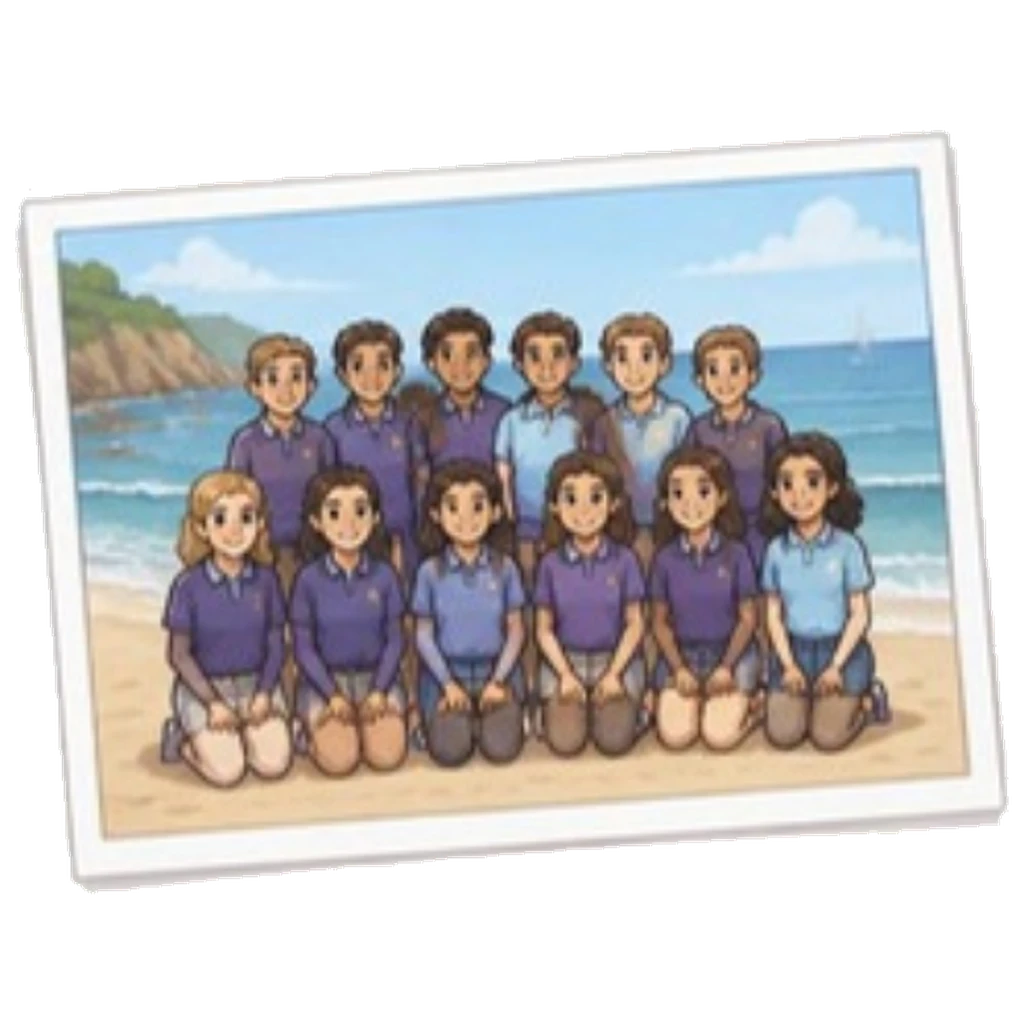
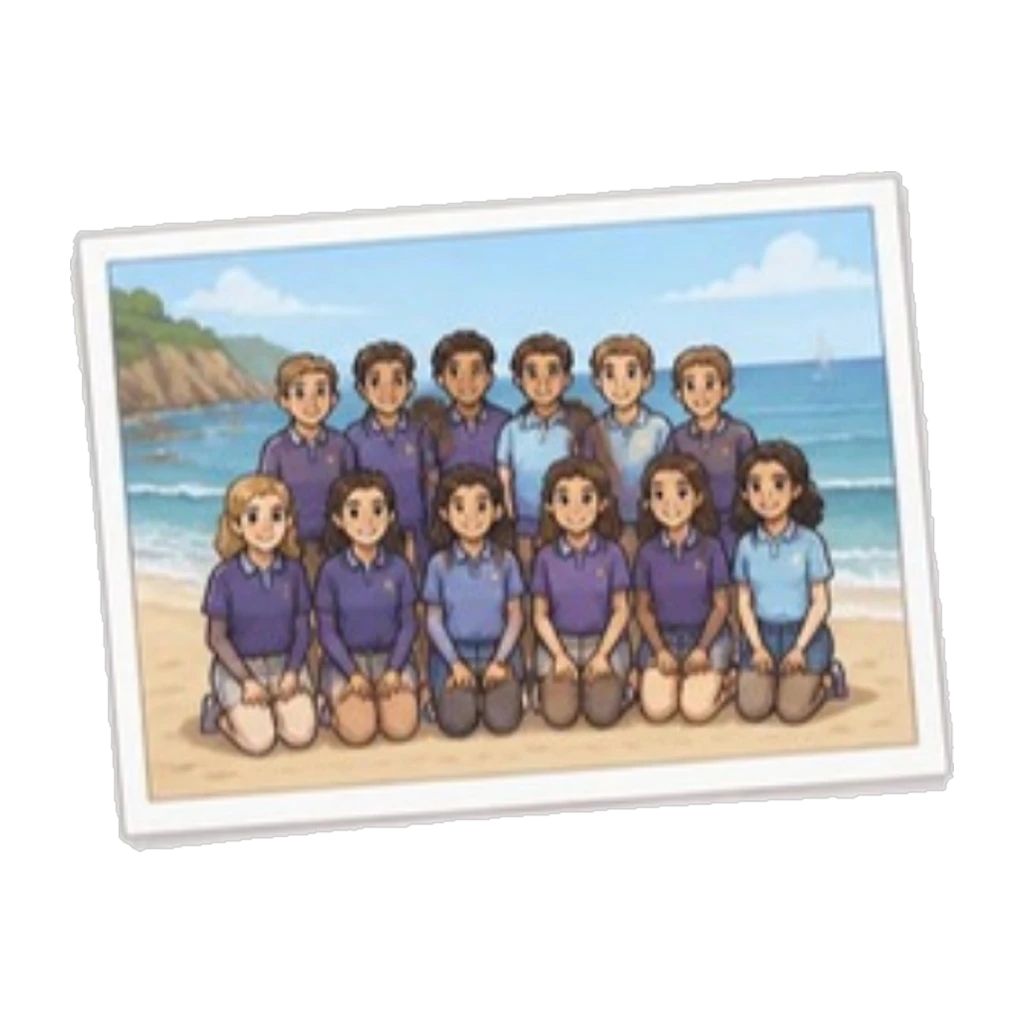
Academy: B1 S1 chapter arc (essential question + 8 chapters in data, blueprint and spec); card splitter handles grey sheets
Claude-Session: https://claude.ai/code/session_01Drtw7zYvDHszyT71Jbh84t

diff --git a/src/curriculum/academy/levels/b1.ts b/src/curriculum/academy/levels/b1.ts
@@ -21,6 +21,17 @@ export const B1_SEASONS: RawSeason[] = [
     pron: ["contracted 'have' /əv/ and 'been' /bɪn/ vs /biːn/", 'intonation of surprise'],
     mediation: 'Relay to a friend, in simple English, the main points of a short article about an unusual experience.',
     skins: ['travel', 'gaming', 'music', 'fitness'],
+    essentialQuestion: 'What have I done, and what do I still want to do?',
+    chapters: [
+      { title: 'The dare', question: 'Who has already done the most?', step: 'Recognise: follow the story and the experiences in it (gist)' },
+      { title: 'What goes on a list?', question: 'Which words describe an adventure and how it felt?', step: 'Controlled: say and use the words' },
+      { title: 'Been or gone?', question: 'How do I say something I have done, and what does ever / never change?', step: 'Controlled: build correct sentences with the pattern' },
+      { title: 'Ask and react', question: 'How do I ask about someone else\'s experiences and show interest?', step: 'Guided: a short exchange with a partner' },
+      { title: 'Whose list is longest?', question: 'What do the details of a longer text about experiences tell me?', step: 'More input and reasoning: a longer text, then relay the key points' },
+      { title: 'My kind of adventure', question: 'What have I done in the world I chose?', step: 'Free choice: my own topic, my own words' },
+      { title: 'Remix: true or false?', question: 'Can I use everything so far without help?', step: 'Fluency on known language only: the boss round' },
+      { title: 'My bucket list', question: 'What have I done, and what do I still want to do?', step: 'Release: the hardest task, three done and three wanted, spoken' },
+    ],
   },
   {
     title: 'Then and Now',

diff --git a/src/curriculum/academy/__tests__/seasonArc.test.ts b/src/curriculum/academy/__tests__/seasonArc.test.ts
@@ -25,3 +25,23 @@ describe('Season arc: one theme, eight related, progressive episodes', () => {
     });
   }
 });
+
+describe('Seasons that carry chapters (academy-season-arc)', () => {
+  const withChapters = ACADEMY_SEASONS.filter((s) => s.chapters);
+  it('B1-S01 has an essential question and eight distinct chapters, each with a sub-question and a difficulty step', () => {
+    const s = ACADEMY_SEASONS.find((x) => x.id === 'B1-S01')!;
+    expect(s.essentialQuestion?.trim().length).toBeGreaterThan(10);
+    expect(s.chapters).toHaveLength(8);
+    expect(withChapters.map((x) => x.id)).toContain('B1-S01');
+  });
+  for (const s of withChapters) {
+    it(`${s.id}: chapters are distinct, the last answers the essential question, and each blueprint carries its chapter`, () => {
+      expect(s.chapters).toHaveLength(8);
+      expect(new Set(s.chapters!.map((c) => c.title.toLowerCase())).size).toBe(8);
+      for (const c of s.chapters!) { expect(c.question.endsWith('?')).toBe(true); expect(c.step.length).toBeGreaterThan(10); }
+      expect(s.chapters![7].question).toBe(s.essentialQuestion);
+      const eps = BPS.filter((b) => b.seasonId === s.id);
+      eps.forEach((e, i) => expect(e.chapter?.title, `${e.id} chapter`).toBe(s.chapters![i].title));
+    });
+  }
+});

diff --git a/src/curriculum/academy/lessonBlueprint.ts b/src/curriculum/academy/lessonBlueprint.ts
@@ -332,6 +332,8 @@ export interface AcademyLessonBlueprint {
   /** minimum fun ingredients to include when the session content is written */
   funIngredientsMin: 5;
   mediation?: string;
+  /** this episode's chapter of the Season theme (academy-season-arc), when the Season has chapters */
+  chapter?: { no: number; title: string; question: string; step: string; essentialQuestion?: string };
   assessment: { rememberFrom: string[]; exitCanDo: string[]; checkpoint: boolean; levelCheck: boolean; bigRemix: boolean };
   dailyTen: { focus: string };
   status: 'outline';
@@ -503,6 +505,7 @@ export function buildLessonBlueprint(s: SeasonOutline, episodeIndex: number, pre
     comfort: COMFORT_CONTROLS,
     funIngredientsMin: 5,
     mediation: type === 'finale' || type === 'deep-dive' ? s.mediation : undefined,
+    chapter: s.chapters?.[episodeIndex] ? { no: meta.no, ...s.chapters[episodeIndex], essentialQuestion: s.essentialQuestion } : undefined,
     assessment: {
       rememberFrom: Array.from(new Set([...(previousId ? [previousId] : []), ...[...earlierIds].reverse(), ...s.recycleFrom])),
       exitCanDo: type === 'finale' ? s.canDo : [objectiveFor(s, type)],

diff --git a/src/curriculum/academy/authoring.ts b/src/curriculum/academy/authoring.ts
@@ -9,6 +9,13 @@ export interface RawStructure {
   use?: string;
 }
 
+/** One episode's chapter of the Season theme (academy-season-arc skill): a sub-question INSIDE the theme, and the ONE difficulty that rises at this step. */
+export interface RawChapter {
+  title: string;
+  question: string;
+  step: string;
+}
+
 export interface RawSeason {
   title: string;
   theme: string;
@@ -27,6 +34,10 @@ export interface RawSeason {
   mediation?: string;
   /** skin ids from SKIN_LIBRARY (3-6) */
   skins: string[];
+  /** optional: the eight chapters E1-E8 (academy-season-arc); required once a Season has one, exactly 8 */
+  chapters?: RawChapter[];
+  /** the one question the whole Season lets the student answer in English (the Release answers it) */
+  essentialQuestion?: string;
   notes?: string;
 }
 

diff --git a/src/curriculum/academy/types.ts b/src/curriculum/academy/types.ts
@@ -77,6 +77,10 @@ export interface SeasonOutline {
   pronunciation: string[];
   /** mediation task for the Season (B1+: required; A2: optional) */
   mediation?: string;
+  /** the one question the Season lets the student answer; the Release answers it (academy-season-arc) */
+  essentialQuestion?: string;
+  /** E1-E8 chapters of the theme (academy-season-arc) */
+  chapters?: { title: string; question: string; step: string }[];
   /** seasons whose items recycle into E1 (previous two) */
   recycleFrom: string[];
   /** 3-6 "My World" topic skins */

diff --git a/src/curriculum/academy/index.ts b/src/curriculum/academy/index.ts
@@ -63,6 +63,8 @@ function build(): LevelPlan[] {
         newItemBudget: r.items,
         pronunciation: r.pron,
         mediation: r.mediation,
+        essentialQuestion: r.essentialQuestion,
+        chapters: r.chapters,
         recycleFrom,
         skins: r.skins.map((s) => ({ id: s, swaps: `nouns, scenarios and pictures from ${SKIN_LIBRARY[s] ?? s}; language spine unchanged` })),
         bigRemix: (i + 1) % 2 === 0,

diff --git a/scripts/academy-split-cards-auto.py b/scripts/academy-split-cards-auto.py
@@ -12,7 +12,14 @@ from scipy import ndimage
 sheet, count, ids = sys.argv[1], int(sys.argv[2]), sys.argv[3:]
 im = Image.open(sheet).convert('RGB')
 a = np.asarray(im).astype(int)
-white = (a.min(2) > 232) & (np.ptp(a, axis=2) < 18)
+# background = the sheet's corner colour: white sheets use the old rule, grey/tinted sheets (Canva 'plain light-grey background') match that colour +-TOL
+corner = np.median(np.concatenate([a[:8, :8].reshape(-1, 3), a[:8, -8:].reshape(-1, 3), a[-8:, :8].reshape(-1, 3), a[-8:, -8:].reshape(-1, 3)]), axis=0)
+TOL = int(__import__("os").environ.get("TOL", "6"))
+def is_bg(x):
+    if corner.min() > 240:
+        return (x.min(-1) > 232) & (np.ptp(x, axis=-1) < 18)
+    return np.abs(x - corner).max(-1) <= TOL
+white = is_bg(a)
 ink = ~white
 merged = ndimage.binary_dilation(ink, iterations=int(__import__("os").environ.get("GAP", "8")))
 lab, n = ndimage.label(merged)
@@ -28,7 +35,7 @@ assert len(boxes) == len(ids), f'{len(boxes)} pictures for {len(ids)} ids'
 for (y0, y1, x0, x1), cid in zip(boxes, ids):
     pad = 6
     cell = a[max(0, y0 - pad):y1 + pad, max(0, x0 - pad):x1 + pad]
-    cw = (cell.min(2) > 232) & (np.ptp(cell, axis=2) < 18)
+    cw = is_bg(cell)
     l2, _ = ndimage.label(cw)
     border = set(np.unique(np.concatenate([l2[0], l2[-1], l2[:, 0], l2[:, -1]]))) - {0}
     obj = ~np.isin(l2, list(border))

diff --git a/docs/academy-b1-s01-spec.md b/docs/academy-b1-s01-spec.md
@@ -202,3 +202,20 @@ Every page carries a `stage` (shown to the student as a small chip) and the stag
 | Energiser | | | | Wordle, Triple Match hard mode, streak | | |
 | Mission | | **teacher models the task** (Vee and Ava) | | Rapport chat (guided choices) | Take 1, feedback replay, Take 2 | |
 | Release, Wrap | | | | | | write two sentences, speak one minute, teach the rule back |
+
+## 12. Season arc (2026-10-16, skill `academy-season-arc`; data in `levels/b1.ts`, test `seasonArc.test.ts`)
+
+**One theme:** Experiences and bucket lists. **Essential question:** What have I done, and what do I still want to do? The Release (my bucket list: three things done, three wanted) answers it.
+
+| E | Chapter | Sub-question inside the theme | Complexity step (one thing rises) | Hands on |
+|---|---|---|---|---|
+| 1 Cold Open | The dare | Who has already done the most? | Recognise: follow the story and its experiences | "How do you talk about them?" |
+| 2 Word Lab | What goes on a list? | Which words describe an adventure and how it felt? | Controlled: say and use the words | "Now put them in a sentence." |
+| 3 Pattern Lab | Been or gone? | How do I say what I have done; what do ever / never change? | Controlled: build correct sentences | "Say it to someone." |
+| 4 On Air | Ask and react | How do I ask about someone else's experiences and show interest? | Guided: a short exchange with a partner | "Read how others do it." |
+| 5 Deep Dive | Whose list is longest? | What do the details of a longer text tell me? | More input and reasoning: longer text, relay key points | "Now your own kind." |
+| 6 Side Quest | My kind of adventure | What have I done in the world I chose? | Free choice: own topic, own words | "Can you do it unaided?" |
+| 7 Remix | True or false? | Can I use everything so far without help? | Fluency on known language only | "Show it all." |
+| 8 Finale | My bucket list | What have I done, and what do I still want to do? | Release: the hardest task, spoken | next Season |
+
+The lessons already built (L1 Cold Open, L2 Word Lab, L3 Pattern Lab) match chapters 1-3; the Season's other Seasons get chapters one level at a time. The thematic-not-semantic rule applies to word sets (Word Lab: words that go together on a trip or a challenge, not a list of feeling adjectives).
